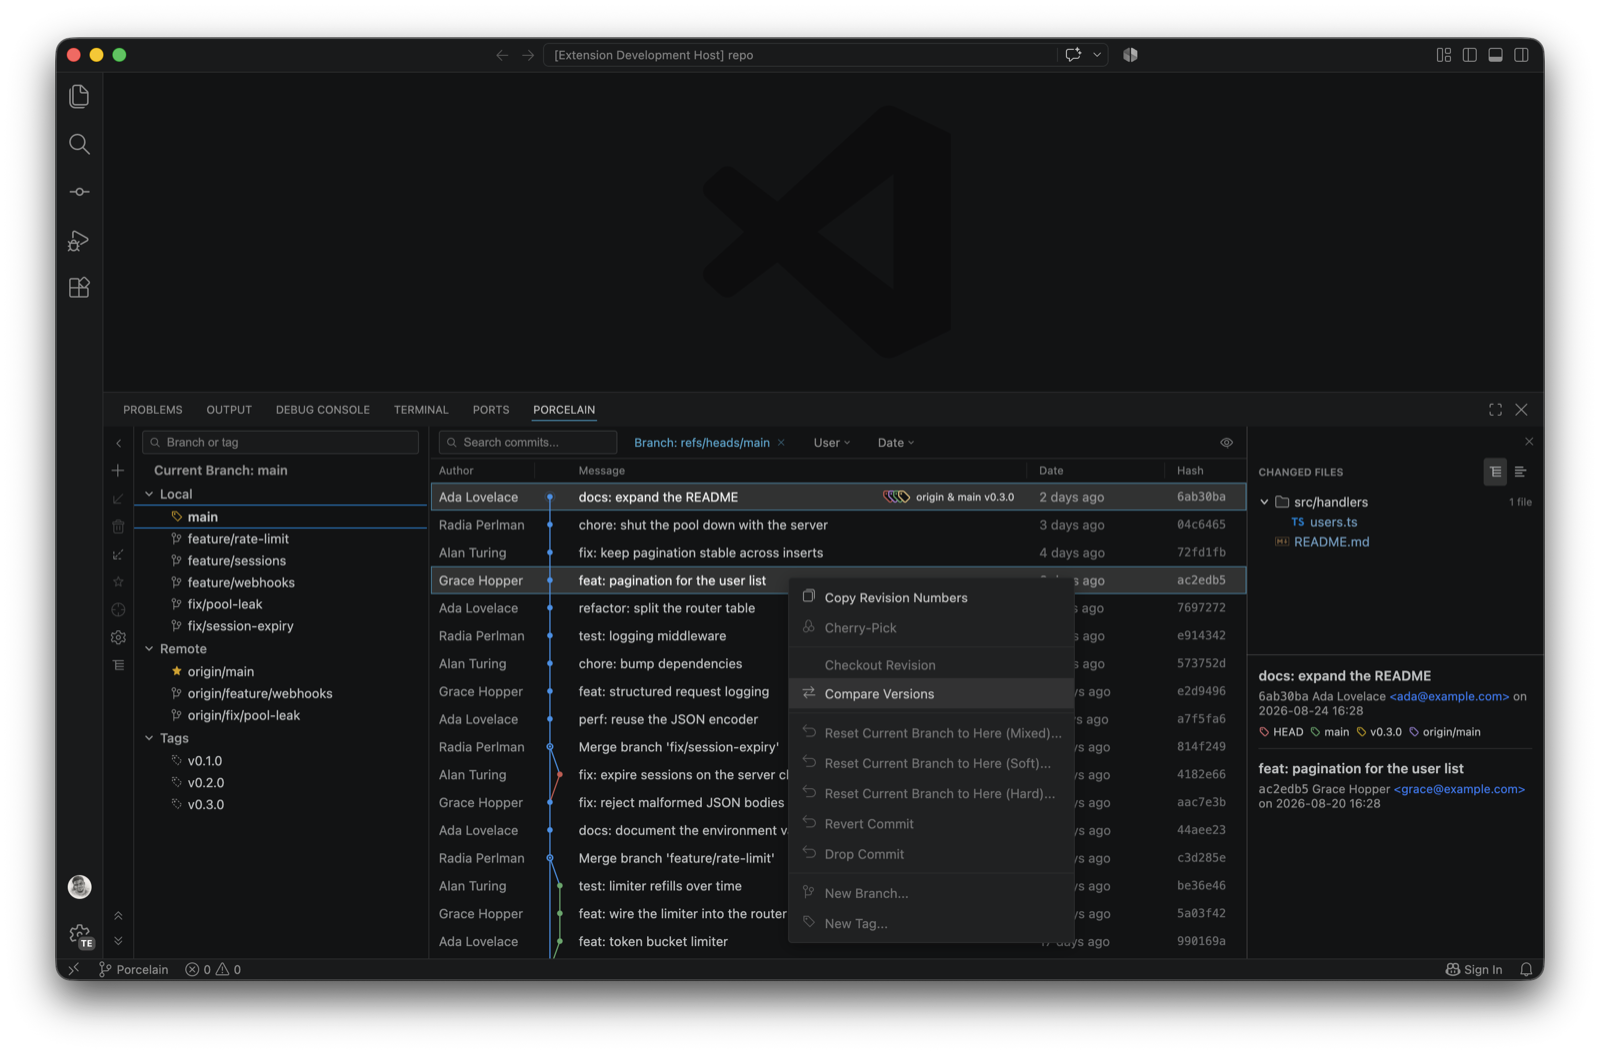
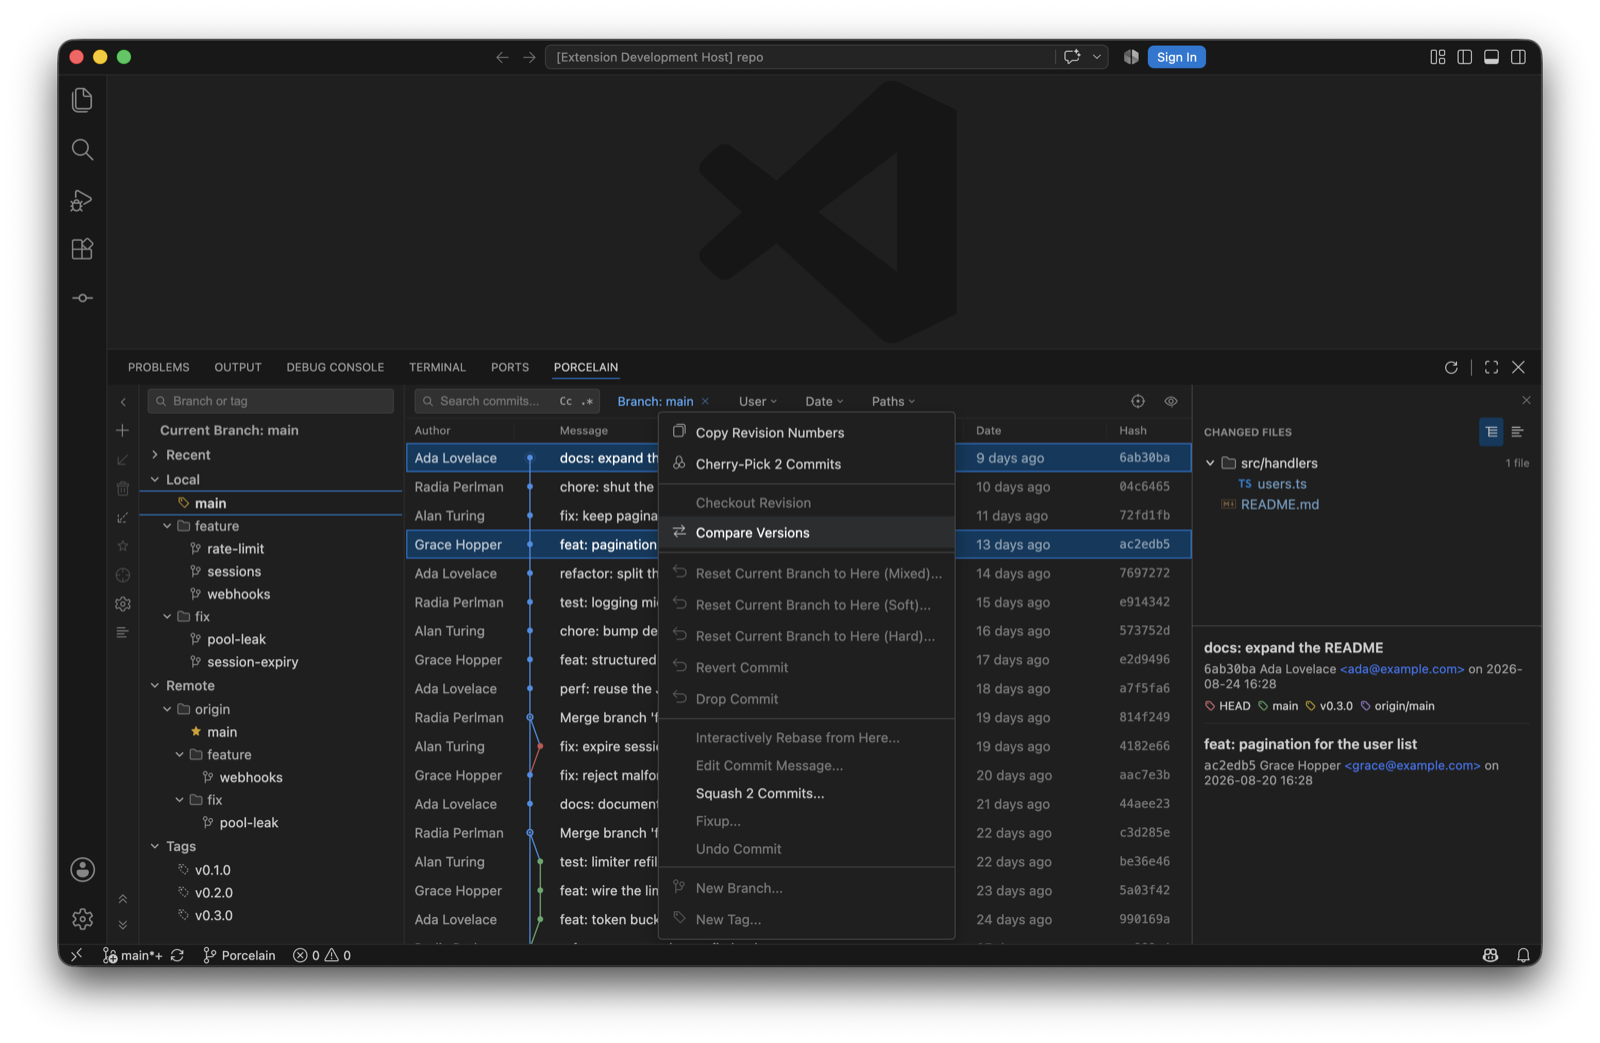
docs: regenerate the README screenshots against the rebuilt surfaces
All seven screenshots are recaptured from the current build in a clean
Extension Development Host profile, so the listing shows what ships: the
three-way merge editor with Yours on the left and Theirs on the right, the
Porcelain diff viewer inside the floating diff window, the two-commit
context menu with its new verbs, the Sign-off control in the Commit tool
window, and the log toolbar's search modes, Paths filter and view options.
Alt text is updated where the content changed.

diff --git a/README.md b/README.md
@@ -76,7 +76,7 @@ Compare a local branch, remote branch, or tag with the current branch. Porcelain
 
 Select two commits in the Git Log, right-click, and choose **Compare Versions** to see everything that differs between them. The result is the net difference between the two snapshots, always read oldest to newest whichever order you selected them in, so work that was added and later reverted between them correctly shows as no change.
 
-![The commit list with two commits highlighted and the context menu open. Compare Versions is highlighted. Copy Revision Numbers sits at the top, and the single-commit actions below, Checkout Revision, Reset, Revert, Drop, New Branch and New Tag, are all greyed out.](./images/screenshots/compare-versions.png)
+![The commit list with two commits highlighted and the context menu open. Compare Versions is highlighted. Copy Revision Numbers, Cherry-Pick 2 Commits and Squash 2 Commits stay available, while the single-commit actions, Checkout Revision, the three Reset variants, Revert, Drop, Interactively Rebase, Edit Commit Message, Fixup and Undo Commit, are greyed out. New Branch and New Tag sit at the bottom.](./images/screenshots/compare-versions.png)
 
 *With two commits selected the single-commit actions grey out, because the row you happened to right-click is not an obvious target for a reset or a revert.*
 
@@ -84,7 +84,7 @@ Select two commits in the Git Log, right-click, and choose **Compare Versions** 
 
 Diffs open in their own window instead of competing with your code for editor space. Compare Versions opens a Changes window listing the files that differ; double-clicking a file opens the diff in a second window that every later diff reuses, so you never accumulate diff tabs. Pin a diff to keep it out of that cycle.
 
-![Two compact windows floating over a dimmed VS Code. The smaller one lists the files that differ between two commits, grouped by directory. The larger one shows a side-by-side diff of pool.ts with an added block highlighted in green.](./images/screenshots/floating-diff-windows-transparent.png)
+![Two compact floating windows. The smaller one lists the three files that differ between two commits, grouped by directory, with pool.ts selected. The larger one shows pool.ts in Porcelain's diff viewer: each side headed by its own revision, paired line numbers down the centre gutter, an added block highlighted in green on the right, and a curved connector joining it to the matching point on the left.](./images/screenshots/floating-diff-windows-transparent.png)
 
 *Both windows open compact, stripped back to their content. The file list stays put while the diff window is reused for every file you open.*
 
@@ -108,7 +108,7 @@ A conflicted merge is three steps, and Porcelain gives each one a surface.
 
 **3. Resolve.** Double-clicking a conflicted file opens the three-way editor in its own window: your side on the left, the working result in the middle, Theirs on the right, with each conflict individually acceptable.
 
-![The three-way merge editor in a compact window. Three syntax-highlighted columns are labelled Left (Theirs), Center (Result) and Right (Yours). Two conflicting regions are highlighted in red with per-conflict accept and dismiss controls, and the header reads 2 changes, 2 conflicts.](./images/screenshots/merge-conflicts-3-way-resolution.png)
+![The three-way merge editor in a compact window. Three syntax-highlighted columns: main on the left, marked Yours; the editable Result in the middle; fix/pool-leak on the right, marked Theirs. The conflicting region is highlighted in red on both outer columns, with accept and ignore controls in the gutters beside it, and the toolbar reads 1 conflict, 0 resolved.](./images/screenshots/merge-conflicts-3-way-resolution.png)
 
 Each conflict can be taken individually rather than the whole file at once, the result column can be edited directly while you work, and everything stays syntax-highlighted throughout. Porcelain also integrates with the built-in VS Code Source Control view, so conflicts raised elsewhere land here too.
 
